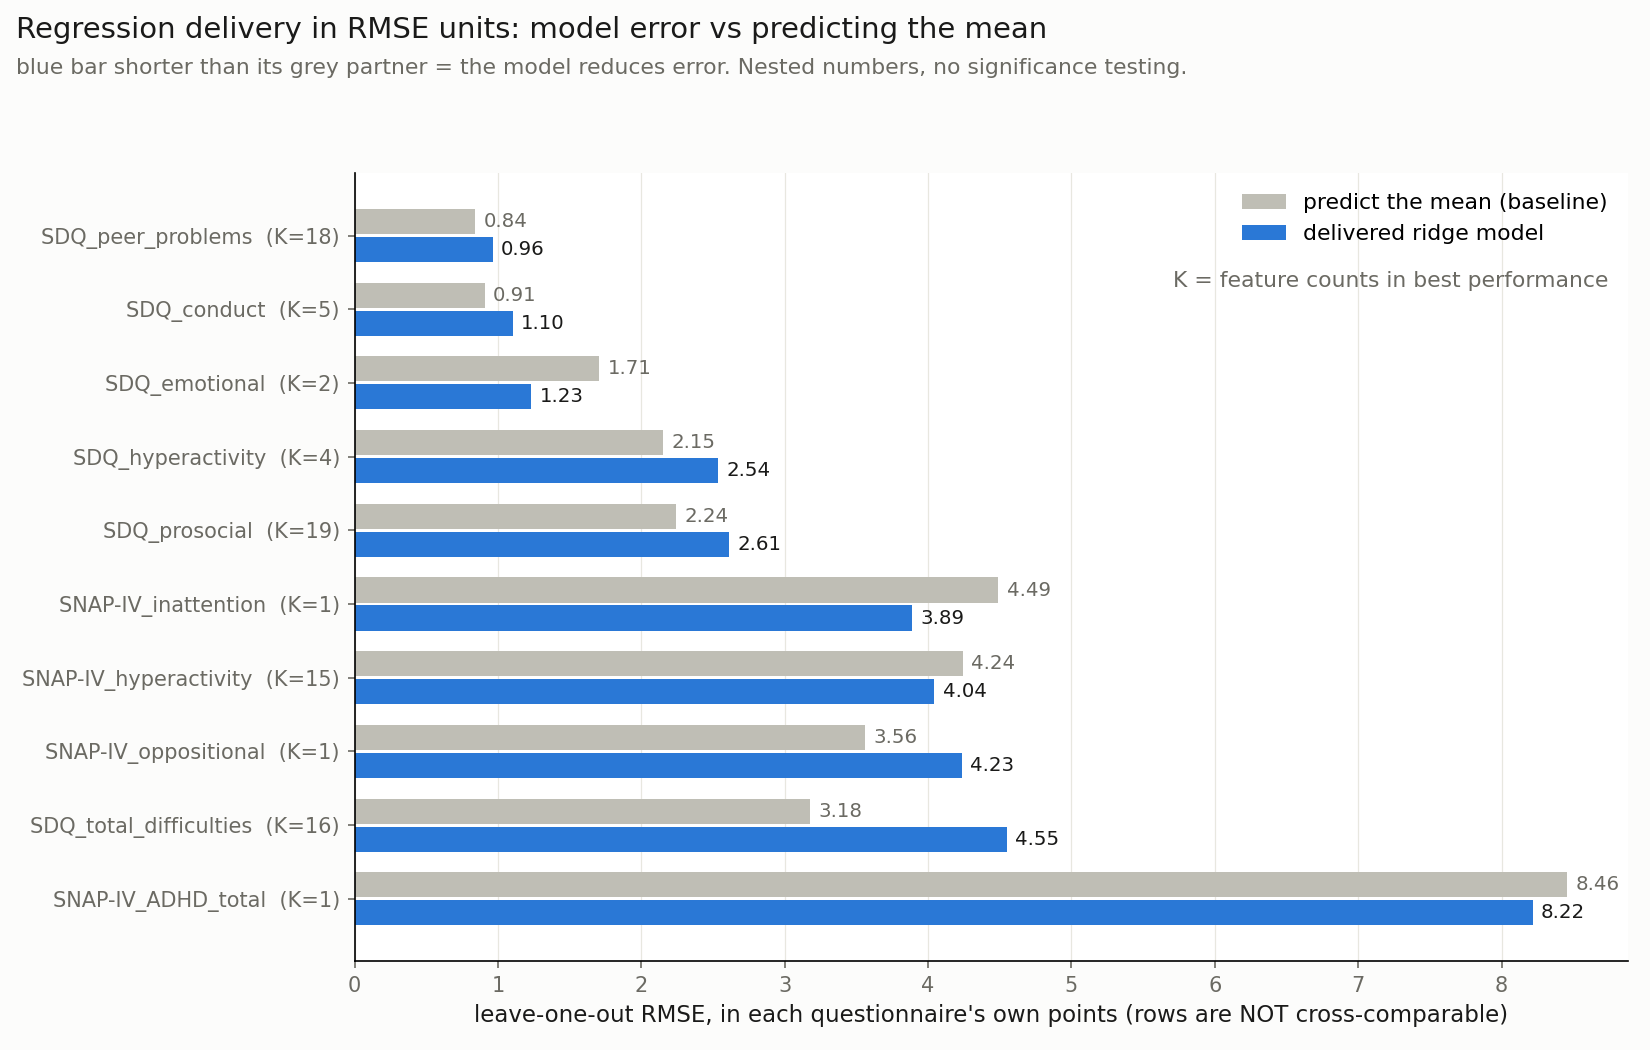
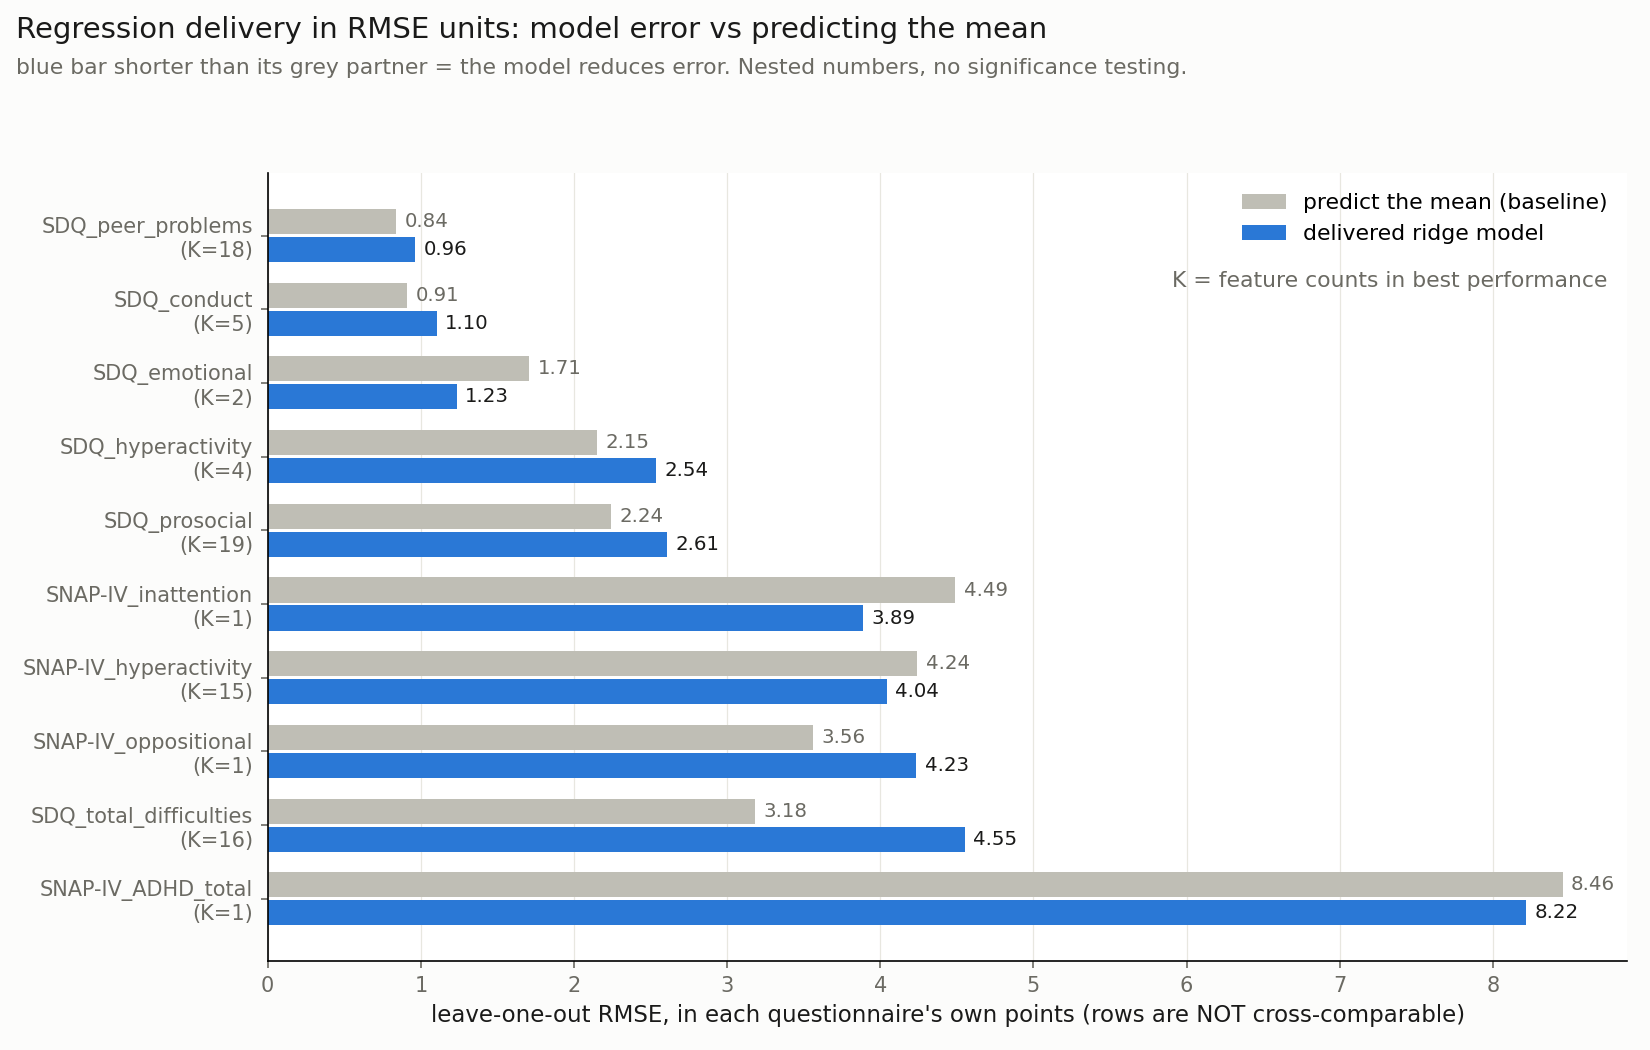
74d bars: K moved to a second line in every row label

diff --git a/analysis/74d_reg_rmse_figure.py b/analysis/74d_reg_rmse_figure.py
@@ -106,7 +106,7 @@ for y, (_, r) in zip(ys, mb.iterrows()):
     ax.annotate(f"{r['rmse']:.2f}", xy=(r["rmse"], y - 0.19),
                 xytext=(4, 0), textcoords="offset points", va="center",
                 fontsize=9.5, color=INK)
-ax.set_yticks(ys, [f"{NAME[t]}  (K={int(k)})"
+ax.set_yticks(ys, [f"{NAME[t]}\n(K={int(k)})"
                    for t, k in zip(mb["target"], mb["k_final"])],
               fontsize=10.5)
 ax.set_xlabel("leave-one-out RMSE, in each questionnaire's own points "
